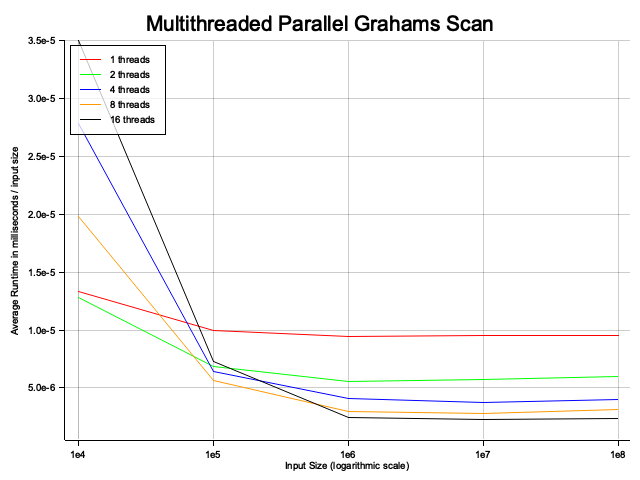
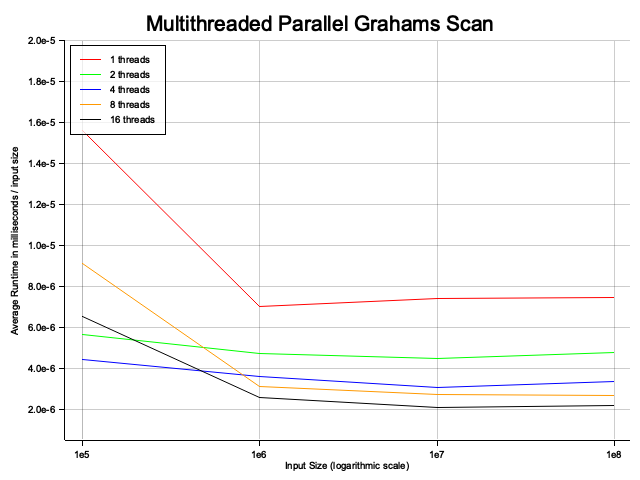
final parallel threads plot

diff --git a/project_2/src/main.rs b/project_2/src/main.rs
@@ -15,9 +15,9 @@ mod types;
 mod utils;
 
 fn main() {
-    let input_sizes: Vec<i64> = (4..=8).map(|exp| 10i64.pow(exp)).collect();
+    let input_sizes: Vec<i64> = (5..=8).map(|exp| 10i64.pow(exp)).collect();
 
-    different_inputs_runtime(input_sizes.clone());
+    //different_inputs_runtime(input_sizes.clone());
     //upper_hull_size(input_sizes.clone());
     parallel_runtime(input_sizes);
 
@@ -250,7 +250,7 @@ fn parallel_runtime(input_sizes: Vec<i64>) {
         input_sizes: input_sizes.clone(),
         algorithm: grahams_scan_parallel,
         args: (Option::from(false), Option::from(1)),
-        y_range: 5e-7..3.5e-5,
+        y_range: 5e-7..2e-5,
     };
 
     for thread in threads {
